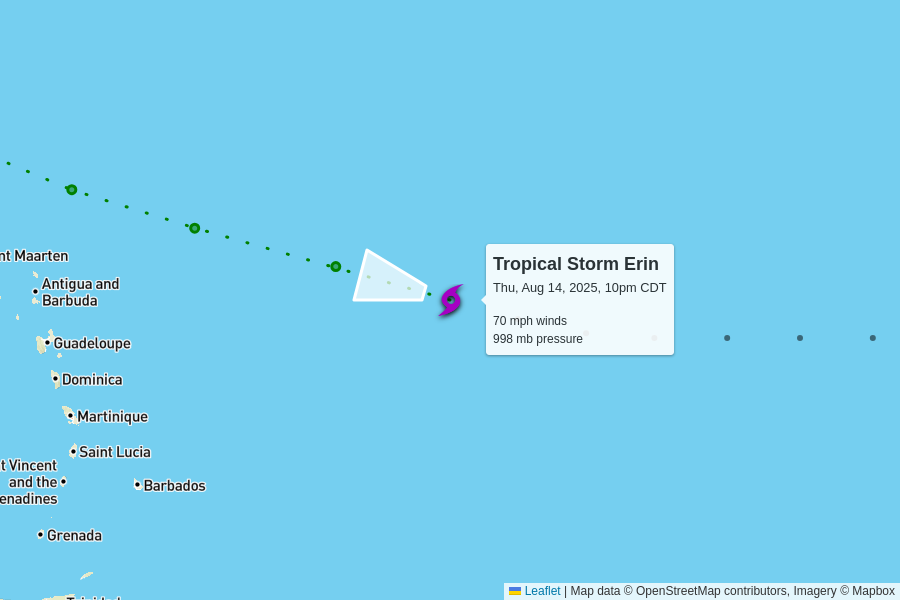
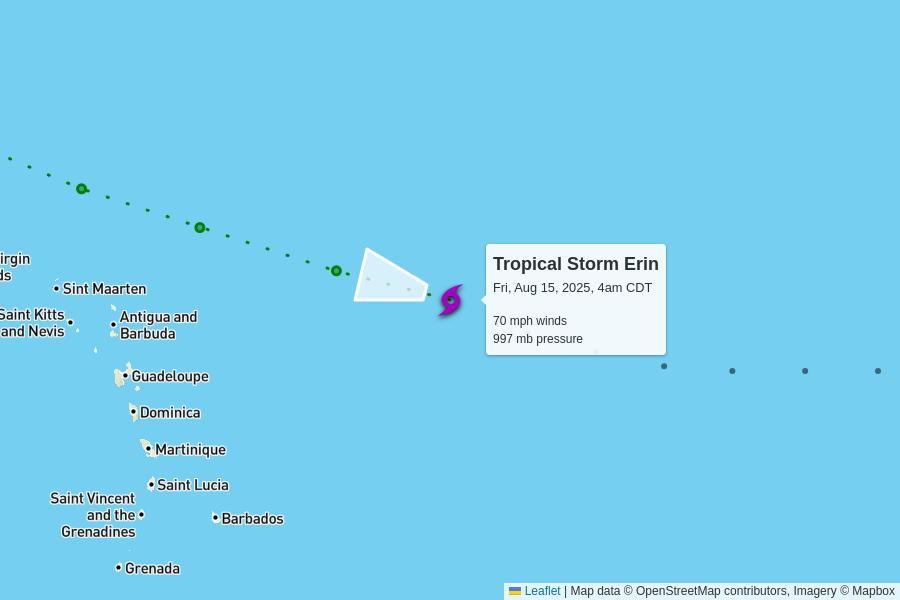
automatic update

diff --git a/docs/index.html b/docs/index.html
@@ -102,7 +102,7 @@
         <td colspan="6" class="storm category-0" >
           <h2>
             Tropical Storm Erin
-            <p class="updated">last updated <span data-time>2025-08-15T03:00:00.000Z</span></p>
+            <p class="updated">last updated <span data-time>2025-08-15T09:00:00.000Z</span></p>
           </h2>
         </td>
       </tr>
@@ -117,8 +117,8 @@
       </tr>
       <tr>
         <td class="spacer"></td>
-        <td>70 mph<br>+10 mph since last update</td>
-        <td>998 mb<br>0 mb since last update</td>
+        <td>70 mph<br>0 mph since last update</td>
+        <td>997 mb<br>-1 mb since last update</td>
         <td>
           17 mph to the west-northwest
           <br/>
